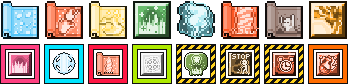
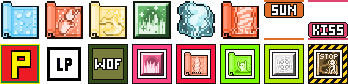
feat: lgp, kit Gv3 con Pneuma e LP della gilda Fromage, sigle per Fog Wall e canti

diff --git a/lgp/index.html b/lgp/index.html
@@ -140,14 +140,14 @@ footer { max-width: 960px; margin: 0 auto; padding: 0 20px 40px; }
 <main>
   <section class="hero">
     <h1>lgp</h1>
-    <p class="lead" data-en="A kit for the LGP plugin of the uaRO client: every ground skill shows its official icon, enlarged from 24 to 38 pixels and colored like the skill.">Un kit per il plugin LGP del client di uaRO: ogni skill a terra mostra la sua icona ufficiale, ingrandita da 24 a 38 pixel e colorata come la skill.</p>
+    <p class="lead" data-en="A kit for the LGP plugin of the uaRO client: every ground skill shows its official icon, enlarged from 24 to 38 pixels and colored like the skill. Pneuma, Land Protector, Fog Wall and six songs show a short label instead, so you can recognize them at once.">Un kit per il plugin LGP del client di uaRO: ogni skill a terra mostra la sua icona ufficiale, ingrandita da 24 a 38 pixel e colorata come la skill. Pneuma, Land Protector, Fog Wall e sei canti mostrano invece una sigla, per riconoscerli subito.</p>
     <div class="download">
-      <a class="btn" href="lgp_20261015.zip" download onclick="window.conta?.('lgp-scaricato')" data-en="Download the kit">Scarica il kit</a>
-      <span class="hint" data-en="lgp_20261015.zip, 40 KB: <code>plugin.ini</code> and the <code>lgp</code> folder with 64 images">lgp_20261015.zip, 40 KB: <code>plugin.ini</code> e la cartella <code>lgp</code> con 64 immagini</span>
+      <a class="btn" href="lgp_20261119.zip" download onclick="window.conta?.('lgp-scaricato')" data-en="Download the kit">Scarica il kit</a>
+      <span class="hint" data-en="lgp_20261119.zip, 33 KB: <code>plugin.ini</code> and the <code>lgp</code> folder with 64 images">lgp_20261119.zip, 33 KB: <code>plugin.ini</code> e la cartella <code>lgp</code> con 64 immagini</span>
     </div>
     <img class="anteprima" src="anteprima.png" width="348" height="84"
-      alt="Icone di Storm Gust, Meteor Storm, Lord of Vermilion, Sanctuary, Magnus Exorcismus, Fire Wall, Quagmire, Land Protector, Safety Wall, Pneuma, Fire Pillar, Spider Web, Venom Dust, Ankle Snare, Claymore Trap e Demonstration"
-      data-en-alt="Icons of Storm Gust, Meteor Storm, Lord of Vermilion, Sanctuary, Magnus Exorcismus, Fire Wall, Quagmire, Land Protector, Safety Wall, Pneuma, Fire Pillar, Spider Web, Venom Dust, Ankle Snare, Claymore Trap and Demonstration">
+      alt="Icone di Storm Gust, Meteor Storm, Lord of Vermilion, Sanctuary, Magnus Exorcismus, Fire Wall, Assassin Cross of Sunset, Fortune's Kiss, Pneuma, Land Protector, Fog Wall, Safety Wall, Fire Pillar, Quagmire, Spider Web e Ankle Snare"
+      data-en-alt="Icons of Storm Gust, Meteor Storm, Lord of Vermilion, Sanctuary, Magnus Exorcismus, Fire Wall, Assassin Cross of Sunset, Fortune's Kiss, Pneuma, Land Protector, Fog Wall, Safety Wall, Fire Pillar, Quagmire, Spider Web and Ankle Snare">
   </section>
 
   <section>
@@ -172,7 +172,7 @@ footer { max-width: 960px; margin: 0 auto; padding: 0 20px 40px; }
       <li data-en="<strong>Close the game.</strong>"><strong>Chiudi il gioco.</strong></li>
       <li data-en="<strong>Open the game folder.</strong> Right-click the uaRO icon on the desktop and choose <em>Open file location</em>. The <code>UaRO World of Your Dream</code> folder opens: it is the one that also contains <code>plugin.ini</code>. Keep it open."><strong>Apri la cartella del gioco.</strong> Fai clic destro sull'icona di uaRO sul desktop e scegli <em>Apri percorso file</em>. Si apre la cartella <code>UaRO World of Your Dream</code>: è quella dove c'è anche <code>plugin.ini</code>. Tienila aperta.</li>
       <li data-en="<strong>Back up the current files.</strong> On the desktop create a folder named <code>lgp original</code> (right-click, <em>New</em>, <em>Folder</em>). Copy into it the <code>plugin.ini</code> file of the game folder and the <code>lgp</code> folder you find in <code>data</code>, then <code>texture</code>. Use copy and paste (<code>Ctrl+C</code> and <code>Ctrl+V</code>), do not drag: dragging can move the files instead of copying them. If there is no <code>lgp</code> folder in <code>texture</code>, copy only <code>plugin.ini</code>."><strong>Fai una copia di quello che c'è.</strong> Sul desktop crea una cartella <code>lgp originale</code> (clic destro, <em>Nuovo</em>, <em>Cartella</em>). Copiaci dentro il file <code>plugin.ini</code> della cartella del gioco e la cartella <code>lgp</code> che trovi in <code>data</code>, poi <code>texture</code>. Usa copia e incolla (<code>Ctrl+C</code> e <code>Ctrl+V</code>), non trascinare: trascinando i file possono spostarsi invece di essere copiati. Se in <code>texture</code> la cartella <code>lgp</code> non c'è, copia solo <code>plugin.ini</code>.</li>
-      <li data-en="<strong>Extract the kit.</strong> Right-click the downloaded <code>lgp_20261015.zip</code> file, choose <em>Extract All</em> and then <em>Extract</em>. A folder opens with <code>plugin.ini</code> and the <code>lgp</code> folder."><strong>Estrai il kit.</strong> Fai clic destro sul file scaricato <code>lgp_20261015.zip</code>, scegli <em>Estrai tutto</em> e poi <em>Estrai</em>. Si apre una cartella con <code>plugin.ini</code> e la cartella <code>lgp</code>.</li>
+      <li data-en="<strong>Extract the kit.</strong> Right-click the downloaded <code>lgp_20261119.zip</code> file, choose <em>Extract All</em> and then <em>Extract</em>. A folder opens with <code>plugin.ini</code> and the <code>lgp</code> folder."><strong>Estrai il kit.</strong> Fai clic destro sul file scaricato <code>lgp_20261119.zip</code>, scegli <em>Estrai tutto</em> e poi <em>Estrai</em>. Si apre una cartella con <code>plugin.ini</code> e la cartella <code>lgp</code>.</li>
       <li data-en="<strong>Copy <code>plugin.ini</code></strong> from the extracted folder into the game folder. When Windows asks what to do with the file already there, choose <em>Replace the file in the destination</em>."><strong>Copia <code>plugin.ini</code></strong> dalla cartella estratta alla cartella del gioco. Quando Windows chiede cosa fare con il file che c'è già, scegli <em>Sostituisci il file nella destinazione</em>.</li>
       <li data-en="<strong>Copy the whole <code>lgp</code> folder</strong> from the extracted folder into <code>data</code>, then <code>texture</code>, of the game folder: paste it inside <code>texture</code>, not inside <code>lgp</code>. If Windows asks, choose <em>Replace the files in the destination</em>."><strong>Copia la cartella <code>lgp</code> intera</strong> dalla cartella estratta in <code>data</code>, poi <code>texture</code>, della cartella del gioco: incollala dentro <code>texture</code>, non dentro <code>lgp</code>. Se Windows chiede, scegli <em>Sostituisci i file nella destinazione</em>.</li>
       <li data-en="<strong>Check.</strong> Open <code>data</code>, <code>texture</code>, <code>lgp</code>: you must see the images right away, such as <code>g_wz_stormgust.bmp</code>. If you find another <code>lgp</code> folder instead, open it, select everything (<code>Ctrl+A</code>), cut it (<code>Ctrl+X</code>), go back one level and paste it (<code>Ctrl+V</code>)."><strong>Controlla.</strong> Apri <code>data</code>, <code>texture</code>, <code>lgp</code>: devi vedere subito le immagini, come <code>g_wz_stormgust.bmp</code>. Se invece trovi un'altra cartella <code>lgp</code>, aprila, seleziona tutto (<code>Ctrl+A</code>), taglia (<code>Ctrl+X</code>), torna indietro di una cartella e incolla (<code>Ctrl+V</code>).</li>
@@ -186,8 +186,11 @@ footer { max-width: 960px; margin: 0 auto; padding: 0 20px 40px; }
   <section>
     <h2 data-en="What changes">Cosa cambia</h2>
     <ul>
-      <li data-en="Skills are 60% opaque, so you can see what is underneath.">Le skill sono opache al 60%, per vedere cosa c'è sotto.</li>
-      <li data-en="Pneuma, Safety Wall, Demonstration, Fire Pillar, Spider Web, Venom Dust and the traps are fully opaque, with a colored frame, so they stand out.">Pneuma, Safety Wall, Demonstration, Fire Pillar, Spider Web, Venom Dust e le trappole sono piene, con una cornice colorata, per vederle subito.</li>
+      <li data-en="Skills are 60% opaque, so you can see what is underneath. Storm Gust, Meteor Storm and Lord of Vermilion are at 40%, because they cover large areas.">Le skill sono opache al 60%, per vedere cosa c'è sotto. Storm Gust, Meteor Storm e Lord of Vermilion sono al 40%, perché coprono aree grandi.</li>
+      <li data-en="Safety Wall, Demonstration, Fire Pillar, Quagmire, Spider Web, Venom Dust and the traps are fully opaque, with a colored frame, so they stand out.">Safety Wall, Demonstration, Fire Pillar, Quagmire, Spider Web, Venom Dust e le trappole sono piene, con una cornice colorata, per vederle subito.</li>
+      <li data-en="Pneuma is a yellow P on red and Land Protector the word LP on white, fully opaque. Both images come from the LGP of the Fromage guild.">Pneuma è una P gialla su rosso e Land Protector la scritta LP su bianco, piene. Le due immagini vengono dall'LGP della gilda Fromage.</li>
+      <li data-en="Fog Wall shows the word WOF, at 70%.">Fog Wall mostra la scritta WOF, al 70%.</li>
+      <li data-en="Six songs show a label on a colored band, at 70%. The Bard ones are in the upper half of the cell: SUN (Assassin Cross of Sunset), BRG (A Poem of Bragi), IDUN (The Apple of Idun). The Dancer ones are in the lower half: KISS (Fortune's Kiss), SLOW (Please Don't Forget Me), SP (Service for You). This way a song and a dance on the same cells are both visible. A line at the top and bottom of the cell marks the edge of the area.">Sei canti mostrano una sigla su una fascia colorata, al 70%. Quelli del bardo stanno nella metà alta della cella: SUN (Assassin Cross of Sunset), BRG (A Poem of Bragi), IDUN (The Apple of Idun). Quelli della danzatrice nella metà bassa: KISS (Fortune's Kiss), SLOW (Please Don't Forget Me), SP (Service for You). Così un canto e una danza sulle stesse celle si vedono entrambi. Una riga in cima e in fondo alla cella segna il bordo dell'area.</li>
       <li data-en="The areas of Storm Gust, Meteor Storm and Lord of Vermilion stay visible for 4.7, 1 and 4.1 seconds.">Le aree di Storm Gust, Meteor Storm e Lord of Vermilion restano visibili per 4,7, 1 e 4,1 secondi.</li>
     </ul>
     <details class="skill">
@@ -217,7 +220,7 @@ footer { max-width: 960px; margin: 0 auto; padding: 0 20px 40px; }
   </section>
 </main>
 <footer>
-  <p class="hint" data-en="The kit images come from the Ragnarok Online skill icons, by Gravity, and are not covered by the site's AGPL-3.0 license.">Le immagini del kit derivano dalle icone delle skill di Ragnarok Online, di Gravity, e non sono coperte dalla licenza AGPL-3.0 del sito.</p>
+  <p class="hint" data-en="The kit images come from the Ragnarok Online skill icons, by Gravity. Those of Pneuma and Land Protector are by the Fromage guild. None of these images is covered by the site's AGPL-3.0 license.">Le immagini del kit derivano dalle icone delle skill di Ragnarok Online, di Gravity. Quelle di Pneuma e Land Protector sono della gilda Fromage. Nessuna di queste immagini è coperta dalla licenza AGPL-3.0 del sito.</p>
 </footer>
 </body>
 </html>

diff --git a/README.md b/README.md
@@ -113,5 +113,5 @@ elaborarli.
 ## Licenza
 
 [AGPL-3.0](LICENSE), tranne le immagini in `lgp/` (lo zip del kit e l'anteprima):
-derivano dalle icone delle skill di Ragnarok Online, di Gravity, e non sono
-coperte dalla AGPL.
+derivano dalle icone delle skill di Ragnarok Online, di Gravity, tranne Pneuma e
+Land Protector, che sono della gilda Fromage, e non sono coperte dalla AGPL.
